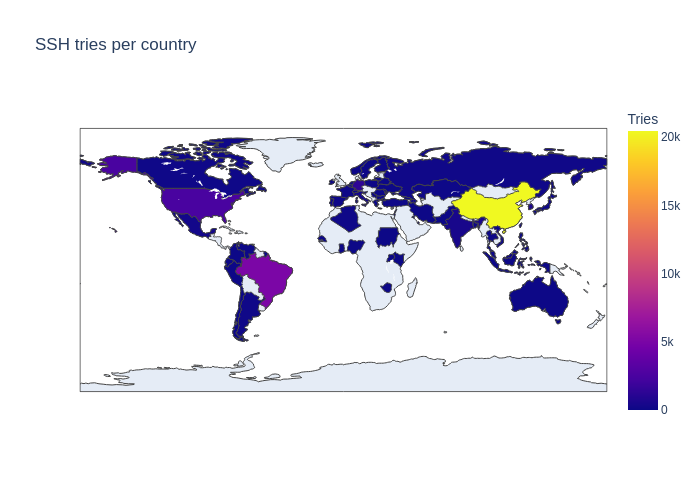
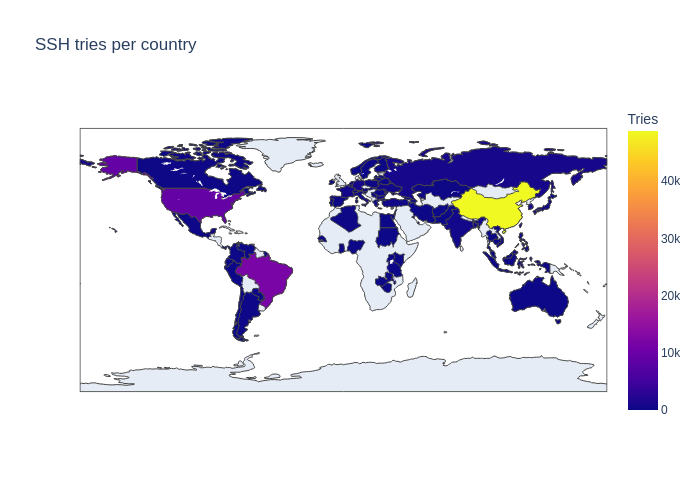
now it accepts bigger numbers

diff --git a/choroplat.py b/choroplat.py
@@ -1,7 +1,10 @@
+import numpy as np
 import plotly_express as px
 import pandas as pd
 
-data = []
+data=[]
+count =[]
+country = []
 
 file = open("output.txt", "r")
 bigstring = file.read()
@@ -9,14 +12,28 @@ bigstring = file.read()
 bigstring = bigstring.replace(",", "")
 listas = bigstring.split("\n")
 
-
 for i in listas:
-    temp = i.strip().split(" ")
-    if len(temp) > 1:
-        if temp[1]=='United':
-            temp[1]='USA'
-        if temp[1] != "can't":
-            data.append([temp[1],int(temp[0])])
+    temp = i.split(";")
+    if temp != ['']:
+        count.append([int(temp[0])])
+        country.append([temp[2]])
+
+uniqueCT = np.unique(country)
+
+counter = np.zeros(len(uniqueCT))
+countCT = []
+
+for i in range(0,len(uniqueCT)):
+    for j in range(0,len(country)):
+        if country[j][0] == uniqueCT[i]:
+            counter[i] += int(count[j][0])
+
+for i in range(0,len(counter)):
+    if uniqueCT[i]=='United':
+        uniqueCT[i]='USA'
+    if uniqueCT[i] != "can't" and uniqueCT[i] != "Address" and uniqueCT[i] != "Resolve":
+        data.append([uniqueCT[i],int(counter[i])])
+
 
 df= pd.DataFrame(data, columns=['Country','Tries'])
 
